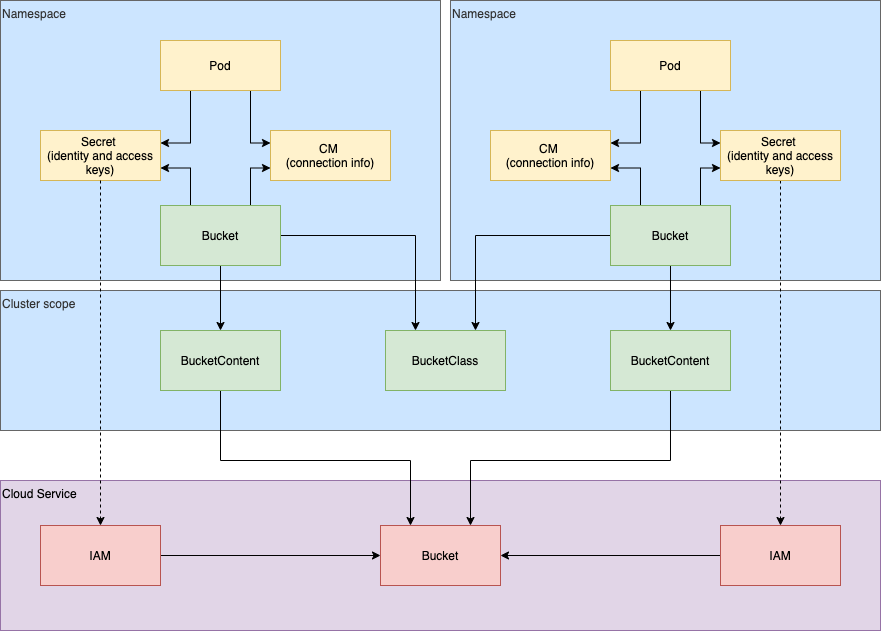
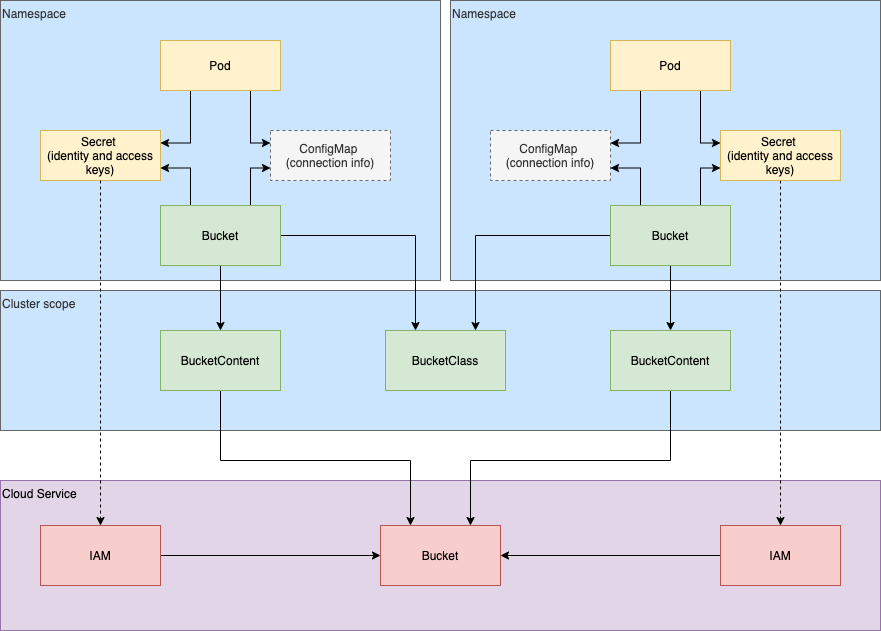
tweak diagrams, expand explanations, add non-goal of IAM

diff --git a/keps/sig-storage/20191125-bucket-provisioning.md b/keps/sig-storage/20191125-bucket-provisioning.md
@@ -64,6 +64,7 @@ File and block are first class citizens within the Kubernetes ecosystem.  Object
 + Define a native _data-plane_ object store API which would greatly improve object store app portability.
 + Mirror the static workflow of PersistentVolumes wherein users are given the first available Volume.  Pre-provisioned buckets are expected to be non-empty and thus unique.
 + Strictly define automation around the COSI API.
++ Abstract and/or automate IAM operations such that user or credential creation be obscured behind the COSI API.
 
 ##  Vocabulary
 
@@ -93,15 +94,25 @@ File and block are first class citizens within the Kubernetes ecosystem.  Object
 
 ## API Relationships
 
-The diagram below indicates the relationships, by reference, between the proposed APIs, the user facing Kubernetes primitives, and the actual storage and identity instances.  COSI APIs (light green) bridge the gap between workloads and object stores, providing a standardized means of consuming object storage for Kubernetes operators and workloads.
+The diagram below indicates the relationships, by reference, between the proposed APIs, the user facing Kubernetes primitives, and the actual storage and identity instances.  COSI APIs bridge the gap between workloads and object stores, providing a standardized means of consuming object storage for Kubernetes operators and workloads.
 
-### Greenfield Bucket
+Secrets are used to store the cluster user’s authn/authz information, to be passed to automation so that operations can be performed on the user’s behalf.
+
+- Green objects represent COSI APIs.
+
+- Yellow objects represent user defined Kubernetes primitives
+- Red objects represent object store service instances
+- Grey objects represent possible connectors between the Bucket API and workloads.  The exact relation will be defined during design of the COSI automation.
+
+### Greenfield: Dynamic Bucket Creation
 
 In an automated system where bucket lifecycles are managed by a COSI controller, a user will define a [Bucket](#bucket), containing a reference a [Bucket Class](#BucketClass).  Bucket Classes are admin-created objects representing a preset configuration for bucket creation.  A [Bucket Content](#BucketContent) object is generated and encapsulates all configuration information from the BucketClass and Bucket.  The BucketContent will store all necessary information about the provisioned storage instance, including connection data.
 
+> Note: The ConfigMap is shown to illustrate one means of transmitting data to the Pod.  In this case, it would be an artifact of a controller.
+
 ![](./bucket-greenfield-api-relations.png)
 
-### Brownfield Bucket
+### Brownfield: Dynamic Bucket Access
 
 The expected workflow for interacting with a pre-existing storage instance is similar to Greenfield. The key distinction in this scenario is that a Bucket Class will reference a single, pre-existing bucket directly (indicated by the bold dashed line).  Buckets instantiated by users with reference to this class will be given the connection information for this pre-existing storage instance.  As part of this operation, the identity specified in the Bucket’s Secret should be granted permission to access the storage instance.  This operation should be configurable in through the BucketClass.
 
